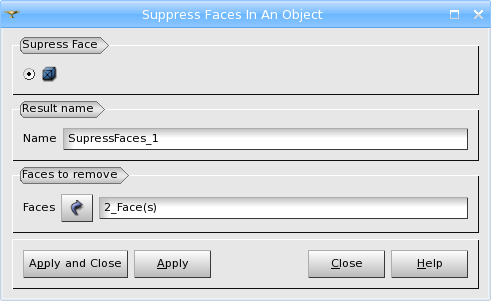
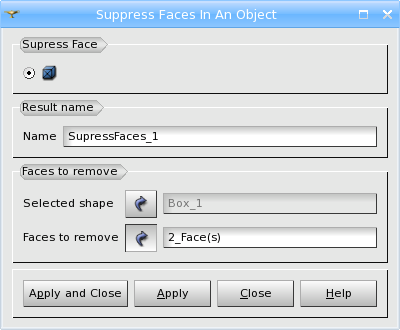
Mantis issue 0020508: EDF 1059 GEOM : Selection of a group in Suppress Faces.

Changed region(s): [[0.0, 0.0299, 1.0, 0.9867]]

diff --git a/src/RepairGUI/RepairGUI_SuppressFacesDlg.h b/src/RepairGUI/RepairGUI_SuppressFacesDlg.h
@@ -19,26 +19,23 @@
 //
 //  See http://www.salome-platform.org/ or email : webmaster.salome@opencascade.com
 //
-// GEOM GEOMGUI : GUI for Geometry component
-// File   : RepairGUI_SuppressFacesDlg.h
-// Author : Lucien PIGNOLONI, Open CASCADE S.A.S.
-//
+//  GEOM GEOMGUI : GUI for Geometry component
+//  File   : RepairGUI_SuppressFacesDlg.h
+//  Author : Lucien PIGNOLONI, Open CASCADE S.A.S.
+
 #ifndef REPAIRGUI_SUPPRESSFACESDLG_H
 #define REPAIRGUI_SUPPRESSFACESDLG_H
 
 #include <GEOMBase_Skeleton.h>
 
-#include <QList>
-
-class DlgRef_1Sel;
-class TColStd_IndexedMapOfInteger;
+class DlgRef_2Sel;
 
 //=================================================================================
 // class    : RepairGUI_SuppressFacesDlg
 // purpose  :
 //=================================================================================
 class RepairGUI_SuppressFacesDlg : public GEOMBase_Skeleton
-{ 
+{
   Q_OBJECT
 
 public:
@@ -49,32 +46,25 @@ protected:
   // redefined from GEOMBase_Helper
   virtual GEOM::GEOM_IOperations_ptr createOperation();
   virtual bool                       isValid( QString& );
-  virtual bool                       execute( ObjectList& );    
+  virtual bool                       execute( ObjectList& );
 
 private:
   void                               Init();
   void                               enterEvent( QEvent* );
-
-  void                               Convert( const TColStd_IndexedMapOfInteger&, 
-                                              GEOM::short_array& );
-  
   void                               initSelection();
-  
+
 private:
-  GEOM::ListOfGO_var                 myObjects;
-  QList<GEOM::short_array>           myFaces;
-  // GEOM::short_array-s contain indexes of selected faces,
-  // index of a GEOM::short_array in myFaces list equals to index of
-  // GEOM::GEOM_Object in myObjects list to which the faces belong to.
-  
-  DlgRef_1Sel*                       GroupPoints;
-  
+  GEOM::GEOM_Object_var              myObject;
+  GEOM::short_array_var              myFacesInd;
+
+  DlgRef_2Sel*                       GroupArgs;
+
 private slots:
   void                               ClickOnOk();
   bool                               ClickOnApply();
-  
+
   void                               ActivateThisDialog();
-  
+
   void                               LineEditReturnPressed();
   void                               SelectionIntoArgument();
   void                               SetEditCurrentArgument();
